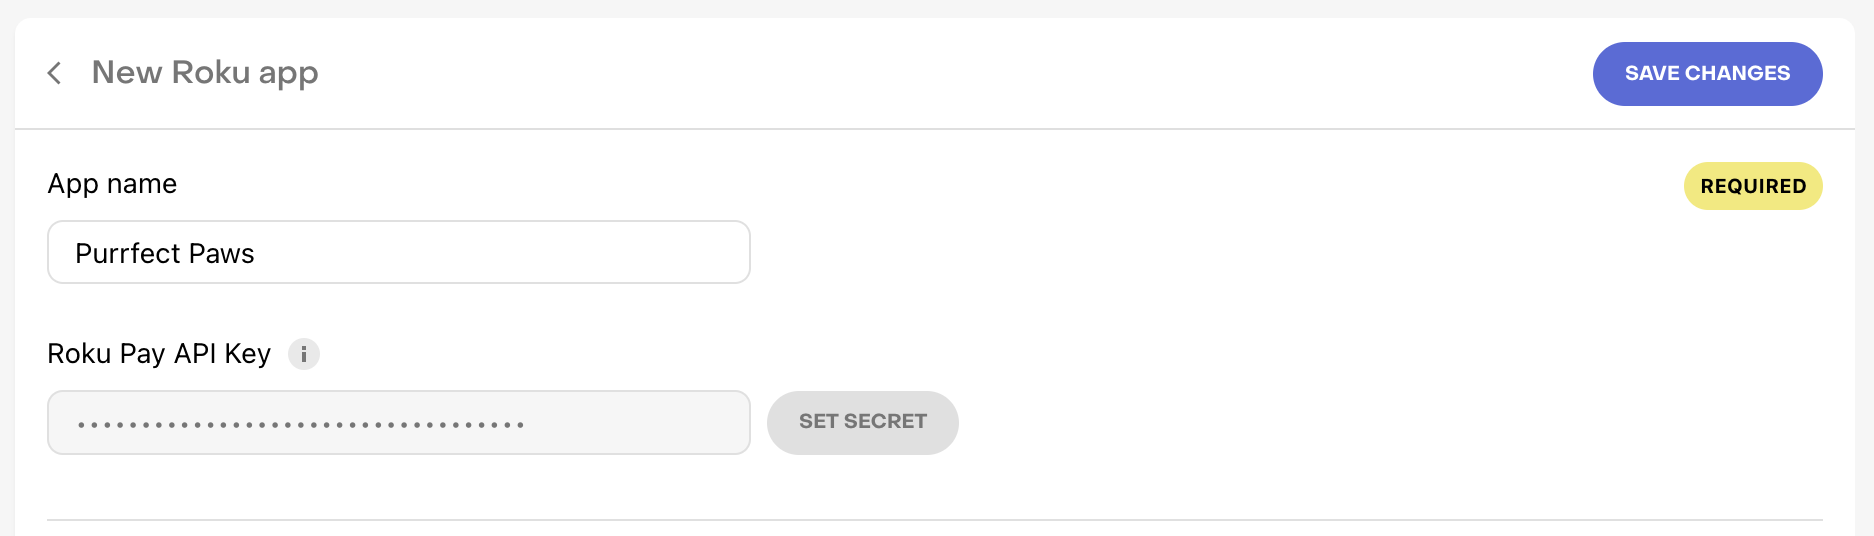
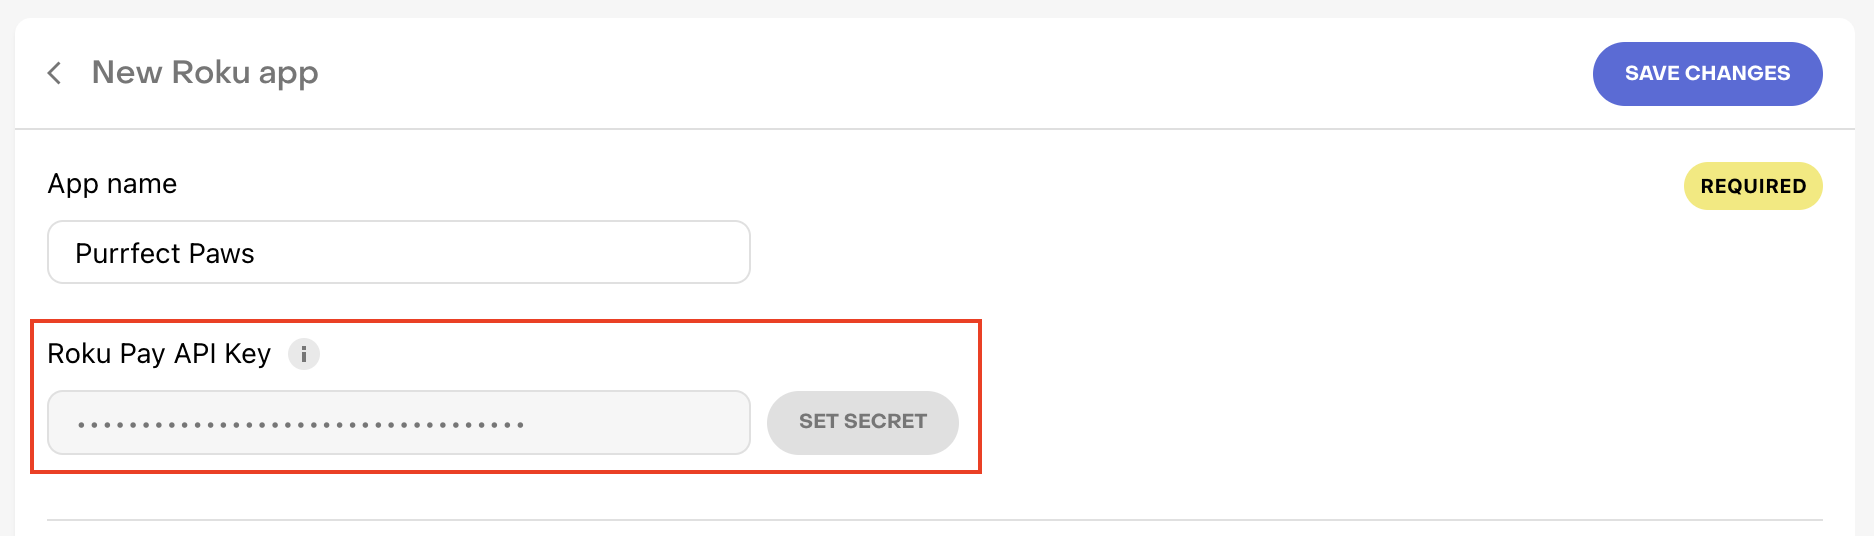
roku doc updates

Changed region(s): [[0.0, 0.8657, 0.5261, 0.8955], [0.0, 0.597, 0.5261, 0.6269]]

diff --git a/sidebars.js b/sidebars.js
@@ -486,6 +486,7 @@ const serviceCredentialsCategory = Category({
       items: [Page({ slug: "google-play-checklists" })],
     }),
     Page({ slug: "amazon-appstore-credentials" }),
+    Page({ slug: "roku-credentials"}),
   ],
 });
 

diff --git a/docs/service-credentials/roku-credentials.md b/docs/service-credentials/roku-credentials.md
@@ -1,0 +1,23 @@
+---
+title: Roku Channel
+slug: roku-credentials
+excerpt: Getting your Roku Pay API Keys
+hidden: false
+---
+
+The Roku Pay API key allows RevenueCat to connect with Roku on your behalf.
+
+## Setup
+1. Log in to your [Roku Developer Dashboard](https://developer.roku.com/dev/dashboard).
+2. On the left-hand side of the Developer Dashboard, you'll see the main navigation panel. Under 'Monetization' options, select 'Roku Pay web services'.
+
+![](/images/roku/roku-pay-web-services.png)
+
+3. Copy the Roku Pay API key.
+
+![](/images/roku/roku-api-key.png)
+
+## Enter the API key in RevenueCat
+In your Roku app settings page in the RevenueCat dashboard, enter the key in the configuration section:
+
+![](/images/roku/roku-name-key.png)
